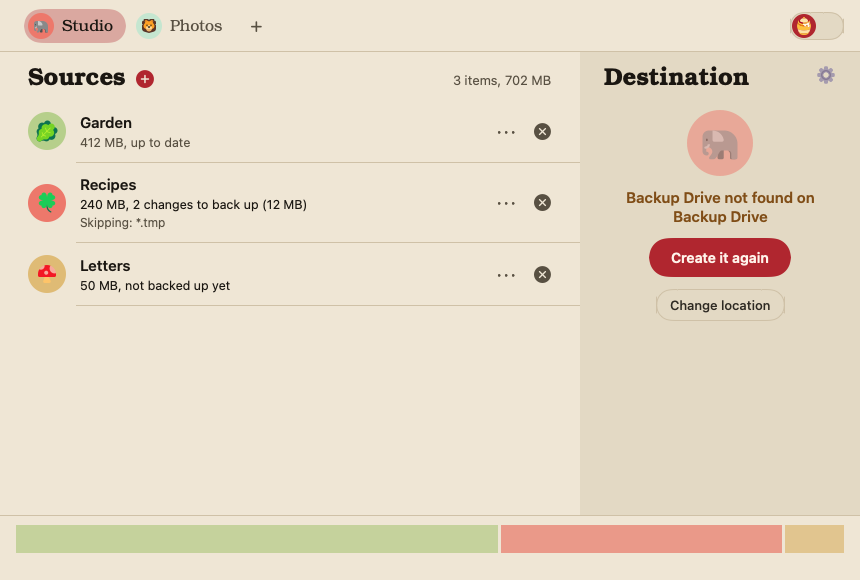
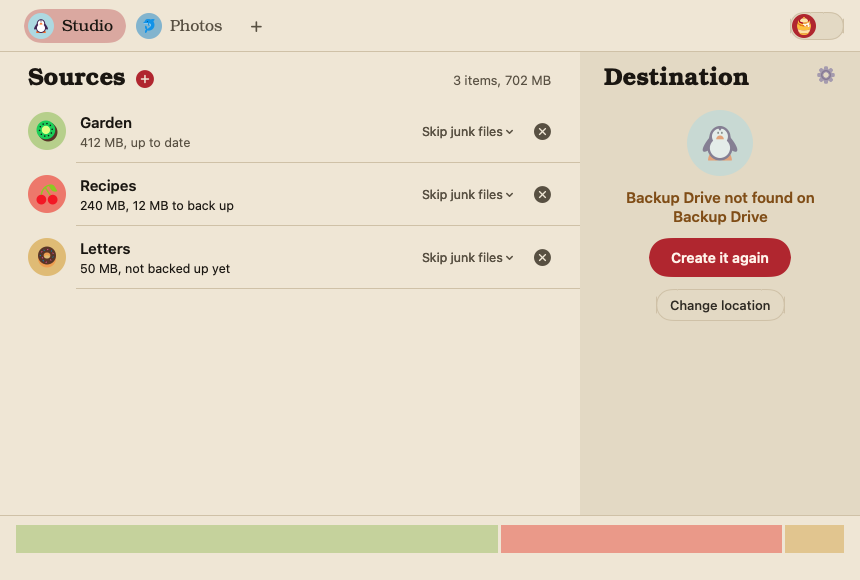
Archivist 0.0.2 — Skip junk files is now a menu on each source and the default; it also skips build folders (node_modules, Rust target, .build and more). Size shown once. Stop works while scanning. Settings closes on a click outside. Scheduled backup shown under Last backup. One Open Anyway on first

diff --git a/Archivist/JobView.swift b/Archivist/JobView.swift
@@ -28,6 +28,8 @@ struct JobView: View {
         store.update(j)
     }
 
+    @State private var showingSettings = false
+
     var body: some View {
         VStack(spacing: 0) {
             HStack(spacing: 0) {
@@ -38,6 +40,26 @@ struct JobView: View {
             BottomBar(view: self)
         }
         .background(Palette.ground)
+        .overlay {
+            if showingSettings {
+                GeometryReader { g in
+                    ZStack {
+                        Color.black.opacity(0.35).ignoresSafeArea()
+                            .contentShape(Rectangle())
+                            .onTapGesture { showingSettings = false }   // a click outside closes it
+                        SettingsSheet(view: self, close: { showingSettings = false })
+                            .frame(width: 480, height: min(640, g.size.height - 32))   // never hangs past the window
+                            .clipShape(RoundedRectangle(cornerRadius: 12))
+                            .shadow(color: .black.opacity(0.25), radius: 20, y: 6)
+                    }
+                    .frame(width: g.size.width, height: g.size.height)
+                }
+                .transition(.opacity)
+            }
+        }
+        .animation(.easeOut(duration: 0.15), value: showingSettings)
+        .onReceive(NotificationCenter.default.publisher(for: .showSettings)) { _ in showingSettings = true }
+        .onExitCommand { showingSettings = false }
         .task(id: refreshKey) { await refresh() }
         .task(id: watchKey) {
             // Recheck when anything changes on either side (macOS file events; a network share
@@ -160,22 +182,6 @@ struct JobView: View {
         }
     }
 
-    func leaveOutSubfolder(_ s: Source) {
-        let panel = NSOpenPanel()
-        panel.canChooseDirectories = true
-        panel.canChooseFiles = false
-        panel.allowsMultipleSelection = true
-        panel.directoryURL = URL(fileURLWithPath: s.readPath)
-        panel.prompt = "Leave out"
-        guard panel.runModal() == .OK else { return }
-        let root = URL(fileURLWithPath: s.readPath).resolvingSymlinksInPath().path
-        // Stored relative to the source; a folder outside it can't be left out of it.
-        let rel = panel.urls.compactMap { u -> String? in
-            let p = u.resolvingSymlinksInPath().path
-            return p.hasPrefix(root + "/") ? String(p.dropFirst(root.count + 1)) : nil
-        }
-        update(s) { $0.leftOut = Array(Set($0.leftOut + rel)).sorted() }
-    }
 
     func update(_ s: Source, _ change: (inout Source) -> Void) {
         edit { j in if let i = j.sources.firstIndex(where: { $0.id == s.id }) { change(&j.sources[i]) } }
@@ -226,7 +232,7 @@ struct SourcesPane: View {
         .overlay(RoundedRectangle(cornerRadius: 12).strokeBorder(Palette.accent.opacity(over ? 0.8 : 0), style: StrokeStyle(lineWidth: 1.5, dash: [6, 4])).padding(8))
         .dropDestination(for: URL.self) { urls, _ in
             let dirs = urls.filter { (try? $0.resourceValues(forKeys: [.isDirectoryKey]).isDirectory) == true }
-            guard !dirs.isEmpty, !view.runner.running else { return false }
+            guard !dirs.isEmpty else { return false }   // allowed mid-backup: the running copy took its list at Start
             view.add(dirs)
             return true
         } isTargeted: { over = $0 }
@@ -251,28 +257,22 @@ struct SourceRow: View {
                 .background(Splash(hex: s.color, addedAt: s.addedAt))
             VStack(alignment: .leading, spacing: 3) {
                 Text(s.name).font(Typeface.text(15, .semibold)).foregroundStyle(Palette.ink.opacity(s.skip ? 0.5 : 1))
-                Text(status).font(Typeface.text(12.5)).foregroundStyle(statusColor)
-                if !s.leftOut.isEmpty || !s.namesLeftOut.isEmpty {
-                    Text(rules).font(Typeface.text(12)).foregroundStyle(Palette.soft)
-                        .fixedSize(horizontal: false, vertical: true)
-                }
+                Text(status).font(Typeface.text(12.5)).foregroundStyle(statusColor).lineLimit(1)
             }
             Spacer(minLength: 8)
             Menu {
-                Button(s.skip ? "Resume" : "Pause: don't copy until resumed") { view.update(s) { $0.skip.toggle() } }
-                Button("Skip a folder inside \(s.name)…") { view.leaveOutSubfolder(s) }
-                Toggle("Skip junk files: caches, temp files, node_modules", isOn: Binding(get: { s.skipJunk }, set: { v in view.update(s) { $0.skipJunk = v } }))
-                if !s.leftOut.isEmpty || !s.namesLeftOut.isEmpty {
-                    Button("Copy everything again") { view.update(s) { $0.leftOut = []; $0.patterns = []; $0.skipJunk = false } }
+                Button { view.update(s) { $0.skipJunk = true } } label: {
+                    Text("Skip junk files") + Text(s.skipJunk ? "  ✓" : "")
                 }
-                Divider()
-                Button("Show in Finder") { NSWorkspace.shared.activateFileViewerSelecting([URL(fileURLWithPath: s.path)]) }
+                Button { view.update(s) { $0.skipJunk = false; $0.leftOut = []; $0.patterns = [] } } label: {
+                    Text("Copy everything") + Text(s.skipJunk ? "" : "  ✓")
+                }
             } label: {
-                Text("• • •").font(.system(size: 9, weight: .bold))   // a menu draws text, not shapes, as its label
+                Text(s.skipJunk ? "Skip junk files" : "Copy everything").font(Typeface.text(12.5))
             }
-            .menuStyle(.borderlessButton).menuIndicator(.hidden).fixedSize()
-            .tint(Palette.soft)   // grey, not the app's teal
-            .help("Pause or skip parts of \(s.name)")
+            .menuStyle(.borderlessButton).fixedSize()
+            .tint(Palette.soft)
+            .help("Junk files: caches, temp files, and build folders that rebuild from the code beside them")
             Button { view.edit { $0.sources.removeAll { $0.id == s.id } } } label: {
                 Image(systemName: "xmark.circle.fill").font(.system(size: 17))
             }
@@ -293,7 +293,8 @@ struct SourceRow: View {
         if !v.compared { return "\(size), calculating…" }
         if !v.destinationExists { return "\(size), not backed up yet" }
         if v.toCopy == 0 { return "\(size), up to date" }
-        return "\(size), \(v.toCopy) \(v.toCopy == 1 ? "change" : "changes") to back up (\(bytes(v.bytesToCopy)))"
+        if v.bytesToCopy >= v.bytes { return "\(size), not backed up yet" }   // everything is new: the same size twice says nothing
+        return v.bytesToCopy > 0 ? "\(size), \(bytes(v.bytesToCopy)) to back up" : "\(size), small changes to back up"
     }
 
     private var statusColor: Color {
@@ -301,9 +302,6 @@ struct SourceRow: View {
         return !v.destinationExists || v.toCopy > 0 ? Palette.ink : Palette.soft   // not the red: it would read as an error
     }
 
-    private var rules: String {
-        "Skipping: " + (source.leftOut.map { ($0 as NSString).lastPathComponent } + source.patterns + (source.skipJunk ? ["junk files"] : [])).joined(separator: ", ")
-    }
 }
 
 struct DropHint: View {
@@ -330,7 +328,6 @@ struct DropHint: View {
 struct DestinationPane: View {
     let view: JobView
     @State private var over = false
-    @State private var settings = false
 
     var body: some View {
         let job = view.job
@@ -340,10 +337,8 @@ struct DestinationPane: View {
             HStack(alignment: .firstTextBaseline) {
                 Text("Destination").font(Typeface.title(24)).foregroundStyle(Palette.ink)
                 Spacer()
-                Button { settings = true } label: { Emoji(name: "gear", size: 20) }
+                Button { NotificationCenter.default.post(name: .showSettings, object: nil) } label: { Emoji(name: "gear", size: 20) }
                     .buttonStyle(.plain).help("Settings: name, picture, schedule, drive type, delete")
-                    .sheet(isPresented: $settings) { SettingsSheet(view: view) }
-                    .onReceive(NotificationCenter.default.publisher(for: .showSettings)) { _ in settings = true }
             }
             .frame(height: Header.height, alignment: .bottom).padding(.bottom, Header.below)   // same box as Sources'
 
@@ -385,16 +380,6 @@ struct DestinationPane: View {
                 .frame(maxWidth: .infinity)
 
                 Spacer(minLength: 8)   // Start sits centred between Change location and the last backup
-                if job.schedule != .byHand {
-                    Button { settings = true } label: {
-                        HStack(spacing: 6) {
-                            Emoji(name: "spiral_calendar", size: 15)
-                            Text(job.schedule.words).font(Typeface.text(12)).foregroundStyle(Palette.soft)
-                        }
-                    }
-                    .buttonStyle(.plain).frame(maxWidth: .infinity).padding(.top, 8)
-                }
-
                 if view.interrupted && !view.runner.running {
                     Text("The last backup was cut off. Start it again to finish; nothing half-copied is kept.")
                         .font(Typeface.text(11.5, .semibold)).foregroundStyle(Palette.warn)
@@ -405,6 +390,14 @@ struct DestinationPane: View {
                 }
                 Text("Last backup: " + (job.lastRun.map { lastWords($0, job.lastBytes) } ?? "—"))
                     .font(Typeface.text(12)).foregroundStyle(Palette.soft).frame(maxWidth: .infinity).padding(.top, 8)
+                Button { NotificationCenter.default.post(name: .showSettings, object: nil) } label: {
+                    HStack(spacing: 5) {
+                        Emoji(name: "spiral_calendar", size: 13)
+                        Text("Scheduled backup: " + (job.schedule == .byHand ? "—" : job.schedule.words))
+                            .font(Typeface.text(12)).foregroundStyle(Palette.soft)
+                    }
+                }
+                .buttonStyle(.plain).frame(maxWidth: .infinity).padding(.top, 3)
             } else {
                 DropHint(icon: job.icon, text: "Drop the destination folder here", action: view.chooseDestination)
                     .frame(maxWidth: .infinity, maxHeight: .infinity)
@@ -556,7 +549,8 @@ struct BottomBar: View {
                             let breath = 0.5 + 0.5 * sin(tl.date.timeIntervalSinceReferenceDate * 2.2)
                             HStack(spacing: 3) {
                                 ForEach(chunks, id: \.s.id) { c in
-                                    Rectangle().fill(Nippon.soft(c.s.color, white: 0.3).opacity(0.25 + 0.3 * breath))
+                                    Rectangle().fill(scheme == .light ? Nippon.color(c.s.color).opacity(0.35 + 0.45 * breath)
+                                                                      : Nippon.soft(c.s.color, white: 0.3).opacity(0.25 + 0.3 * breath))
                                         .frame(width: max(4, w * Double(c.b) / Double(total)))
                                 }
                             }
@@ -679,7 +673,7 @@ enum FolderWatch {
 /// appearance, and deleting it.
 struct SettingsSheet: View {
     let view: JobView
-    @Environment(\.dismiss) private var dismiss
+    var close: () -> Void = {}
     @Environment(JobStore.self) private var store
     @AppStorage("appearance") private var appearance = "system"
     @State private var name = ""
@@ -755,16 +749,15 @@ struct SettingsSheet: View {
                     Button("Delete this backup…", role: .destructive) { confirmDelete = true }
                         .foregroundStyle(Palette.warn)
                     Spacer()
-                    Button("Done") { saveName(); dismiss() }.keyboardShortcut(.defaultAction)
+                    Button("Done") { saveName(); close() }.keyboardShortcut(.defaultAction)
                 }
             }
             .padding(26)
         }
-        .frame(width: 480, height: 640)
         .background(Palette.ground)
         .onAppear { name = job.title }
         .alert("Delete “\(job.title)”?", isPresented: $confirmDelete) {
-            Button("Delete", role: .destructive) { dismiss(); store.remove(job.id) }
+            Button("Delete", role: .destructive) { close(); store.remove(job.id) }
             Button("Keep", role: .cancel) {}
         } message: {
             Text("Only this backup's setup is removed. The copies it already made stay on the destination drive.")

diff --git a/ArchivistCore/Sources/ArchivistCore/Scan.swift b/ArchivistCore/Sources/ArchivistCore/Scan.swift
@@ -20,12 +20,17 @@ public struct TreeScanner {
     public var excluded: Set<String>          // relative paths, skipped with everything under them
     public var skipRootNames: Set<String>     // names skipped only at the root
     public var skipAppleDouble = false        // `._name` twins on FAT-family drives belong to macOS
-    public var patterns: [String] = []        // names left out anywhere in the tree, fnmatch style (`*.tmp`, `node_modules`)
+    /// Names left out anywhere in the tree, fnmatch style (`*.tmp`, `node_modules`). `name@marker`
+    /// leaves out a folder only when `marker` sits beside it: `target@Cargo.toml` is Rust's build
+    /// output, while a folder named `target` anywhere else is someone's work.
+    public var patterns: [String] = []
     /// Folders that are another drive mounted inside this tree: never entered (a whole-drive
     /// backup must not wander into other volumes; inode numbers are only unique per volume).
     public private(set) var otherVolumes: [String] = []
     /// Folders that could not be listed: what is under them is unknown, not gone.
     public private(set) var unreadable: [String] = []
+    /// Asked between folders: true ends the scan early (Stop must not wait out a million-file walk).
+    public var shouldStop: (() -> Bool)?
 
     public init(excluded: Set<String> = [], skipRootNames: Set<String> = []) {
         self.excluded = excluded
@@ -41,6 +46,7 @@ public struct TreeScanner {
         var problems: [String] = []
         var stack: [String] = [""]
         while let rel = stack.popLast() {
+            if shouldStop?() == true { break }
             let abs = rel.isEmpty ? root : root + "/" + rel
             let children: [Entry]
             do {
@@ -56,7 +62,11 @@ public struct TreeScanner {
                 let name = (e.path as NSString).lastPathComponent
                 if rel.isEmpty && skipRootNames.contains(name) { continue }
                 if skipAppleDouble && name.hasPrefix("._") { continue }
-                if patterns.contains(where: { fnmatch($0, name, 0) == 0 }) { continue }
+                if patterns.contains(where: { p in
+                    guard let at = p.firstIndex(of: "@") else { return fnmatch(p, name, 0) == 0 }
+                    return e.kind == .directory && fnmatch(String(p[..<at]), name, 0) == 0
+                        && access(abs + "/" + p[p.index(after: at)...], F_OK) == 0
+                }) { continue }
                 if excluded.contains(e.path) { continue }
                 if e.kind == .directory {
                     var st = stat()

diff --git a/Archivist/Job.swift b/Archivist/Job.swift
@@ -9,11 +9,15 @@ struct Source: Codable, Identifiable, Hashable {
     var skip = false                 // "skip next time": kept in the list, not copied
     var leftOut: [String] = []       // subfolders, relative to this source
     var patterns: [String] = []      // names left out anywhere inside (`*.tmp`); older saves only
-    var skipJunk = false             // "Skip junk files": Source.junk, anywhere inside
+    var skipJunk = true              // "Skip junk files" (the default for a new source): Source.junk, anywhere inside
     var addedAt: Date?               // when it was dropped in: its row splashes if that was moments ago
 
     /// Throwaway files any app rebuilds on its own.
-    static let junk = ["Caches", ".cache", "*.tmp", "*.temp", "node_modules", "DerivedData", ".Trash", "*.swp"]
+    static let junk = ["Caches", ".cache", "*.tmp", "*.temp", "node_modules", "DerivedData", ".Trash", "*.swp",
+                       // build output that rebuilds from the code beside it
+                       ".build", "__pycache__", ".venv", ".next", ".turbo", ".vite", ".gradle", ".pytest_cache", ".mypy_cache",
+                       "target@Cargo.toml", "build@CMakeLists.txt", "build@package.json", "build@build.gradle", "build@build.gradle.kts",
+                       "dist@package.json", "dist@pyproject.toml", "dist@setup.py"]
     /// What the engine leaves out by name.
     var namesLeftOut: [String] { patterns + (skipJunk ? Source.junk : []) }
     var icon = Source.icons.randomElement()!   // plants and food: sources; animals: backups
@@ -30,7 +34,7 @@ struct Source: Codable, Identifiable, Hashable {
         let c = try decoder.container(keyedBy: CodingKeys.self)
         id = try c.decode(UUID.self, forKey: .id)
         path = try c.decode(String.self, forKey: .path)
-        skip = try c.decodeIfPresent(Bool.self, forKey: .skip) ?? false
+        skip = false   // Pause is gone from the app: a source saved paused copies again
         leftOut = try c.decodeIfPresent([String].self, forKey: .leftOut) ?? []
         patterns = try c.decodeIfPresent([String].self, forKey: .patterns) ?? []
         skipJunk = try c.decodeIfPresent(Bool.self, forKey: .skipJunk) ?? false

diff --git a/ArchivistCore/Tests/ArchivistCoreTests/EngineTests.swift b/ArchivistCore/Tests/ArchivistCoreTests/EngineTests.swift
@@ -515,6 +515,29 @@ final class EngineTests: XCTestCase {
         XCTAssertEqual(xattrs(dst + "/Photos")[XATTR_FINDERINFO_NAME]?[8], 0x04, "and the folder still says it has a custom icon")
     }
 
+    func testBuildOutputIsLeftOutOnlyBesideItsProjectFile() throws {
+        write("rust/Cargo.toml", "x")
+        write("rust/target/debug/big.bin", "b")
+        write("essay/target/goal.txt", "keep")   // a folder named target that is someone's work
+        var o = Options()
+        o.patterns = ["target@Cargo.toml"]
+        _ = try backup(o)
+        XCTAssertFalse(FileManager.default.fileExists(atPath: dst + "/rust/target"))
+        XCTAssertTrue(FileManager.default.fileExists(atPath: dst + "/rust/Cargo.toml"))
+        XCTAssertTrue(FileManager.default.fileExists(atPath: dst + "/essay/target/goal.txt"))
+    }
+
+    func testStopDuringTheScanWritesNothingAndArchivesNothing() throws {
+        for i in 0..<50 { write("d\(i)/f.txt", "x") }
+        _ = try backup()
+        let e = Engine(source: src, destination: dst, options: Options())
+        e.stop()   // stopped before the scan begins: the scan ends at once
+        let r = try e.run()
+        XCTAssertTrue(r.stopped)
+        XCTAssertEqual(r.retired, 0, "a cut-short scan must not make the rest look deleted")
+        XCTAssertTrue(FileManager.default.fileExists(atPath: dst + "/d49/f.txt"))
+    }
+
     func testLanesFollowTheMeasurements() {
         XCTAssertEqual(Lanes.choose(source: .ssd, destination: .ssd), Lanes(small: 8, big: 2, together: true, diskOrder: false))
         XCTAssertEqual(Lanes.choose(source: .spinning, destination: .ssd), Lanes(small: 1, big: 1, together: false, diskOrder: true))

diff --git a/ArchivistCore/Sources/ArchivistCore/Engine.swift b/ArchivistCore/Sources/ArchivistCore/Engine.swift
@@ -147,10 +147,18 @@ public final class Engine {
         dstScanner.skipAppleDouble = fat.contains(dst.fileSystem)
         dstScanner.patterns = options.patterns + Options.alwaysLeftOut // left out = not managed: never retired to _Past either
 
+        srcScanner.shouldStop = { [unowned self] in self.isStopped }
+        dstScanner.shouldStop = srcScanner.shouldStop
         let (srcEntries, srcProblems) = try srcScanner.scan(source)
         var (dstEntries, dstProblems) = FileManager.default.fileExists(atPath: destination) ? try dstScanner.scan(destination) : ([], [])
         problems += srcProblems
         problems += dstProblems
+        // Stopped while scanning: a half scan must never decide what is gone. Nothing was written.
+        if isStopped {
+            var r = Report(source: src, destination: dst, lanes: lanes)
+            r.problems = problems; r.stopped = true; r.seconds = Date().timeIntervalSince(start)
+            return r
+        }
         problems += srcScanner.otherVolumes.map { "\($0): another drive mounted here; not copied" }
         // An empty source next to a full backup is almost always a drive that is not there
         // (an unmounted share, a disconnected disk), never a wish to archive everything.

diff --git a/docs/site/03-first-backup.md b/docs/site/03-first-backup.md
@@ -8,13 +8,10 @@ A backup has sources (what to copy), a destination (where it goes), and one butt
 
 Drop folders, or a whole drive, on the left side, or click the dashed box and choose. Each source gets its own picture and colour, a size, and a line saying where it stands: "not backed up yet", "2 changes to back up (12 MB)", "up to date".
 
-The **⋯** menu on a source row:
+On the right of each source, a menu chooses what to copy:
 
-- **Pause**: keep the source in the list but don't copy it until you choose Resume.
-- **Skip a folder inside…**: choose folders inside this source to leave out.
-- **Skip junk files**: leave out caches, temp files and `node_modules`.
-- **Copy everything again**: ignore what is already there and copy the whole source afresh.
-- **Show in Finder**.
+- **Skip junk files** (the default): leave out caches, temp files, and build folders that rebuild from the code beside them, such as `node_modules`, or `target` next to a `Cargo.toml`.
+- **Copy everything**: copy every file in the folder.
 
 The **ⓧ** removes the source from the backup. Nothing at the destination is touched by that.
 

diff --git a/docs/site/04-settings.md b/docs/site/04-settings.md
@@ -1,6 +1,6 @@
 # Settings
 
-The ⚙ at the top right of the Destination panel opens the settings of the selected backup.
+The ⚙ at the top right of the Destination panel, or the **Scheduled backup** line under it, opens the settings of the selected backup. Click outside the panel to close it.
 
 ![The settings sheet: name, picture, colour, schedule, earlier versions](img/settings.png)
 
